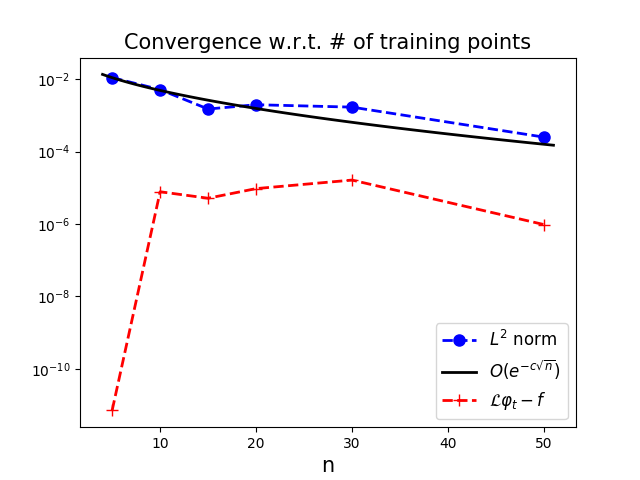
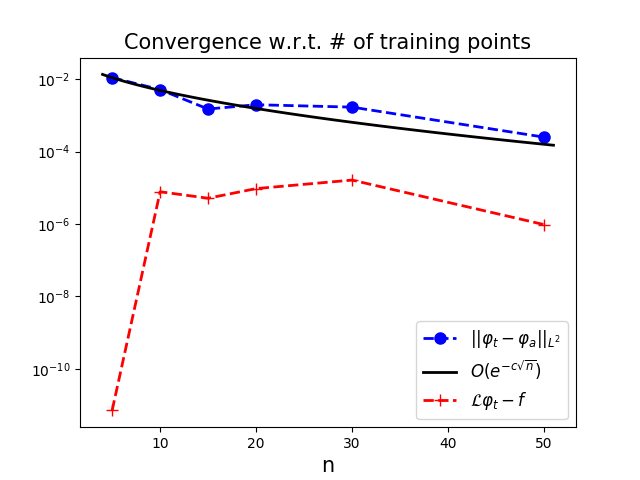
Fixed plots

diff --git a/src/Plot_errors.py b/src/Plot_errors.py
@@ -54,6 +54,6 @@ plt.semilogy(Number_of_Training_Pts, Loss_error,
              'r+--', linewidth=2, markersize=8)
 
 plt.xlabel('n', fontsize=15)
-plt.legend([r'$L^2$ norm', r'$O(e^{-c\sqrt{n}})$',r'$\mathcal{L}\varphi_t-f$'], fontsize=12)
+plt.legend([r'$||\varphi_t-\varphi_a||_{L^2}$', r'$O(e^{-c\sqrt{n}})$',r'$\mathcal{L}\varphi_t-f$'], fontsize=12)
 plt.title('Convergence w.r.t. # of training points', fontsize=15)
 plt.show()
